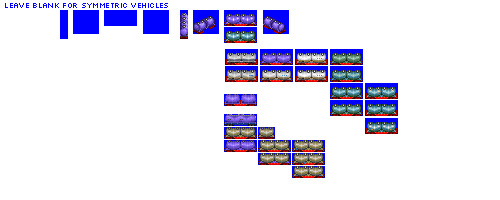
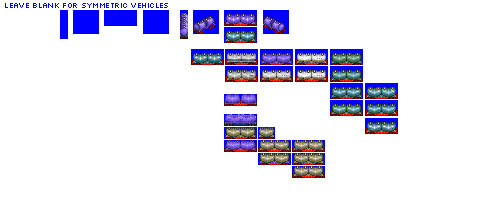
Change: weathered variant for chemical silo cars

Changed region(s): [[0.36, 0.24, 0.45, 0.33]]

diff --git a/src/train.py b/src/train.py
@@ -4254,7 +4254,8 @@ class SiloCarChemicalConsist(SiloCarConsistBase):
         self.default_cargos = polar_fox.constants.default_cargos["silo_chemical"]
         # Graphics configuration
         weathered_variants = {
-            "unweathered": graphics_constants.chemical_silo_car_livery_recolour_maps
+            "unweathered": graphics_constants.chemical_silo_car_livery_recolour_maps,
+            "weathered": graphics_constants.chemical_silo_car_livery_recolour_maps_weathered,
         }
         self.gestalt_graphics = GestaltGraphicsSimpleBodyColourRemaps(
             weathered_variants=weathered_variants

diff --git a/src/vehicles/chemical_silo_cars.py b/src/vehicles/chemical_silo_cars.py
@@ -76,7 +76,7 @@ def main():
 
     consist = SiloCarChemicalConsist(
         roster_id="pony",
-        base_numeric_id=14890,
+        base_numeric_id=17300,
         gen=6,
         subtype="B",
         sprites_complete=False,
@@ -86,7 +86,7 @@ def main():
 
     consist = SiloCarChemicalConsist(
         roster_id="pony",
-        base_numeric_id=14900,
+        base_numeric_id=17310,
         gen=6,
         subtype="C",
         sprites_complete=False,

diff --git a/src/gestalt_graphics/graphics_constants.py b/src/gestalt_graphics/graphics_constants.py
@@ -346,6 +346,21 @@ chemical_silo_car_livery_recolour_maps = (
         },
     ),
 )
+chemical_silo_car_livery_recolour_maps_weathered = (
+    (
+        "DFLT",
+        {
+            136: 88,
+            137: 97,
+            138: 156,
+            139: 157,
+            140: 158,
+            141: 101,
+            142: 102,
+            143: 103,
+        },
+    ),
+)
 
 covered_hopper_car_livery_recolour_maps = (
     (
